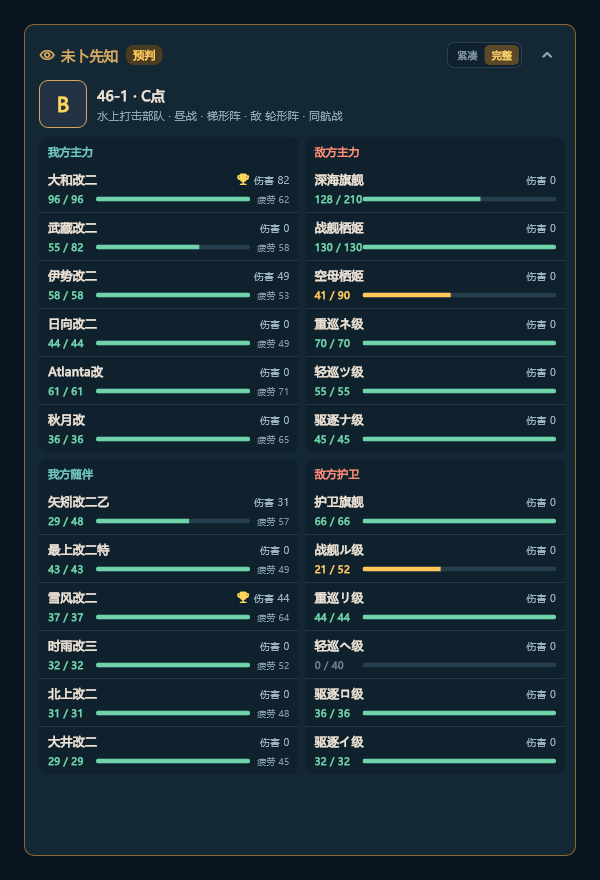
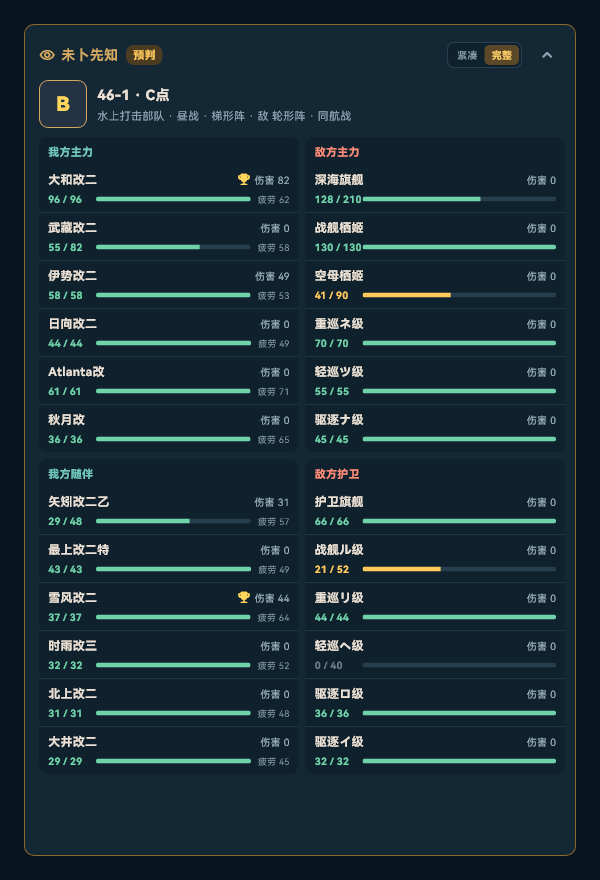
chore: initial open-source release

diff --git a/test/combined_fleet_preview_test.dart b/test/combined_fleet_preview_test.dart
@@ -11,13 +11,14 @@ import 'fixtures/kcsapi_fixtures.dart';
 
 void main() {
   setUpAll(() async {
-    final fontBytes = await File(r'C:\Windows\Fonts\msyh.ttc').readAsBytes();
+    final separator = Platform.pathSeparator;
+    final fontBytes = await File(
+      'assets${separator}fonts${separator}HarmonyOS_Sans_SC.ttf',
+    ).readAsBytes();
     await (FontLoader(
       'PreviewCjk',
     )..addFont(Future<ByteData>.value(ByteData.sublistView(fontBytes)))).load();
-    final iconBytes = await File(
-      r'G:\DevTools\flutter\bin\cache\artifacts\material_fonts\MaterialIcons-Regular.otf',
-    ).readAsBytes();
+    final iconBytes = await _materialIconsFont().readAsBytes();
     await (FontLoader(
       'MaterialIcons',
     )..addFont(Future<ByteData>.value(ByteData.sublistView(iconBytes)))).load();
@@ -128,6 +129,22 @@ void main() {
       ),
     );
   });
+}
+
+File _materialIconsFont() {
+  final separator = Platform.pathSeparator;
+  var directory = File(Platform.resolvedExecutable).parent;
+  while (directory.parent.path != directory.path) {
+    final candidate = File(
+      '${directory.path}${separator}bin${separator}cache${separator}artifacts'
+      '${separator}material_fonts${separator}MaterialIcons-Regular.otf',
+    );
+    if (candidate.existsSync()) {
+      return candidate;
+    }
+    directory = directory.parent;
+  }
+  throw StateError('Unable to locate the Flutter Material Icons font.');
 }
 
 GameState _combinedFleetState() {

diff --git a/docs/项目交接与下一步路线-2026-07-31.md b/docs/项目交接与下一步路线-2026-07-31.md
@@ -1,7 +1,7 @@
 # Yahagi 移动端项目交接与下一步路线
 
 > 更新时间：2026-07-31  
-> 项目目录：`G:\kancolle project\yahagi_kancolle_browser`  
+> 项目目录：仓库根目录
 > 当前重点平台：Android  
 > iOS 状态：保留跨平台接口，尚未实现原生捕获
 
@@ -120,7 +120,7 @@
 - `docs/superpowers/specs/2026-07-30-capture-modes-design.md`
 - `docs/superpowers/specs/2026-07-30-game-surface-toolbar-design.md`
 
-重要：`G:\kancolle project\ui.txt` 和 `开发文档.txt` 中的「手动 Cookie 管理／粘贴 Cookie」属于早期方案，已被当前只读安全策略废弃。不要实现 Cookie 读取、导入、导出或手动注入。
+重要：仓库根目录下 `ui.txt` 和 `开发文档.txt` 中的「手动 Cookie 管理／粘贴 Cookie」属于早期方案，已被当前只读安全策略废弃。不要实现 Cookie 读取、导入、导出或手动注入。
 
 建议先新增独立规格，再按 TDD 实现：
 
@@ -322,20 +322,20 @@
 - Debug APK：构建成功。
 - 模拟器：`emulator-5554` 可用。
 - 最新 APK：
-  - `G:\kancolle project\yahagi_kancolle_browser\build\app\outputs\flutter-apk\app-debug.apk`
+  - `build/app/outputs/flutter-apk/app-debug.apk`
 
 环境：
 
 - Flutter 3.44.8 stable
 - Dart 3.12.2
-- Flutter SDK：`C:\flutter`
-- Android SDK：`G:\Android\Sdk`
-- Android Studio 工程：`G:\kancolle project\yahagi_kancolle_browser`
+- Flutter SDK：以本机 Flutter 配置为准。
+- Android SDK：以本机 Android Studio 配置为准。
+- Android Studio 工程：仓库根目录。
 
 常用命令：
 
 ```powershell
-cd 'G:\kancolle project\yahagi_kancolle_browser'
+Set-Location '<project-root>'
 flutter test --reporter compact
 flutter analyze
 flutter build apk --debug
@@ -344,9 +344,8 @@ flutter build apk --debug
 安装到当前模拟器：
 
 ```powershell
-& 'G:\Android\Sdk\platform-tools\adb.exe' `
-  -s emulator-5554 install -r `
-  'G:\kancolle project\yahagi_kancolle_browser\build\app\outputs\flutter-apk\app-debug.apk'
+adb -s emulator-5554 install -r `
+  'build\app\outputs\flutter-apk\app-debug.apk'
 ```
 
 ## 4. 已知限制与注意事项
@@ -413,10 +412,10 @@ flutter build apk --debug
 
 ```text
 请先完整阅读：
-G:\kancolle project\yahagi_kancolle_browser\docs\项目交接与下一步路线-2026-07-31.md
+docs\项目交接与下一步路线-2026-07-31.md
 
 项目根目录：
-G:\kancolle project\yahagi_kancolle_browser
+当前仓库根目录
 
 不要修改数据捕获安全边界，不要实现 Cookie 读取、导入或注入。
 
